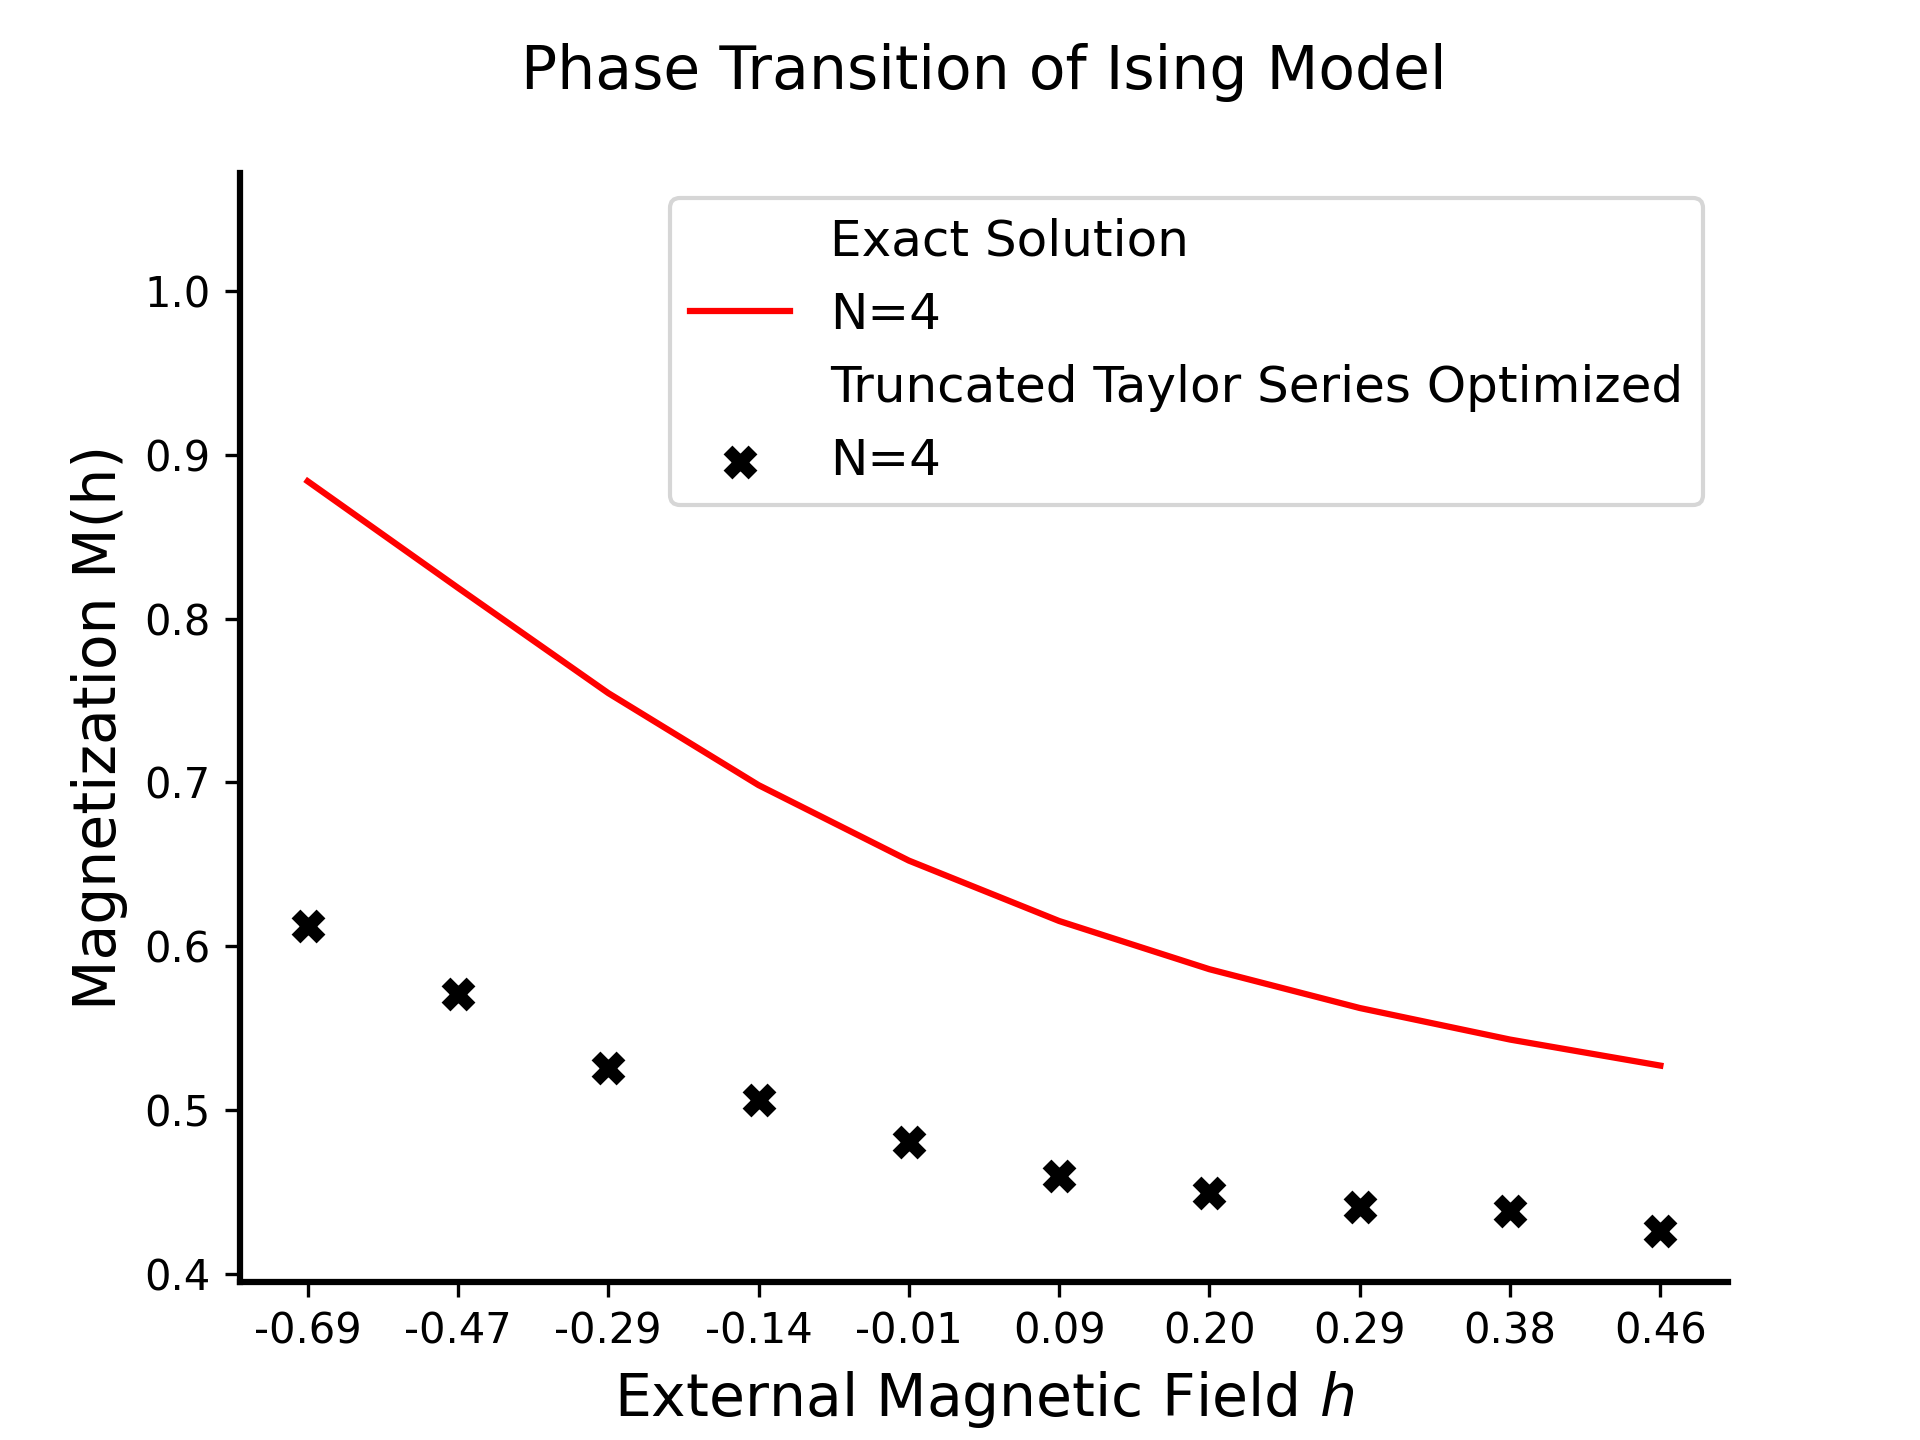
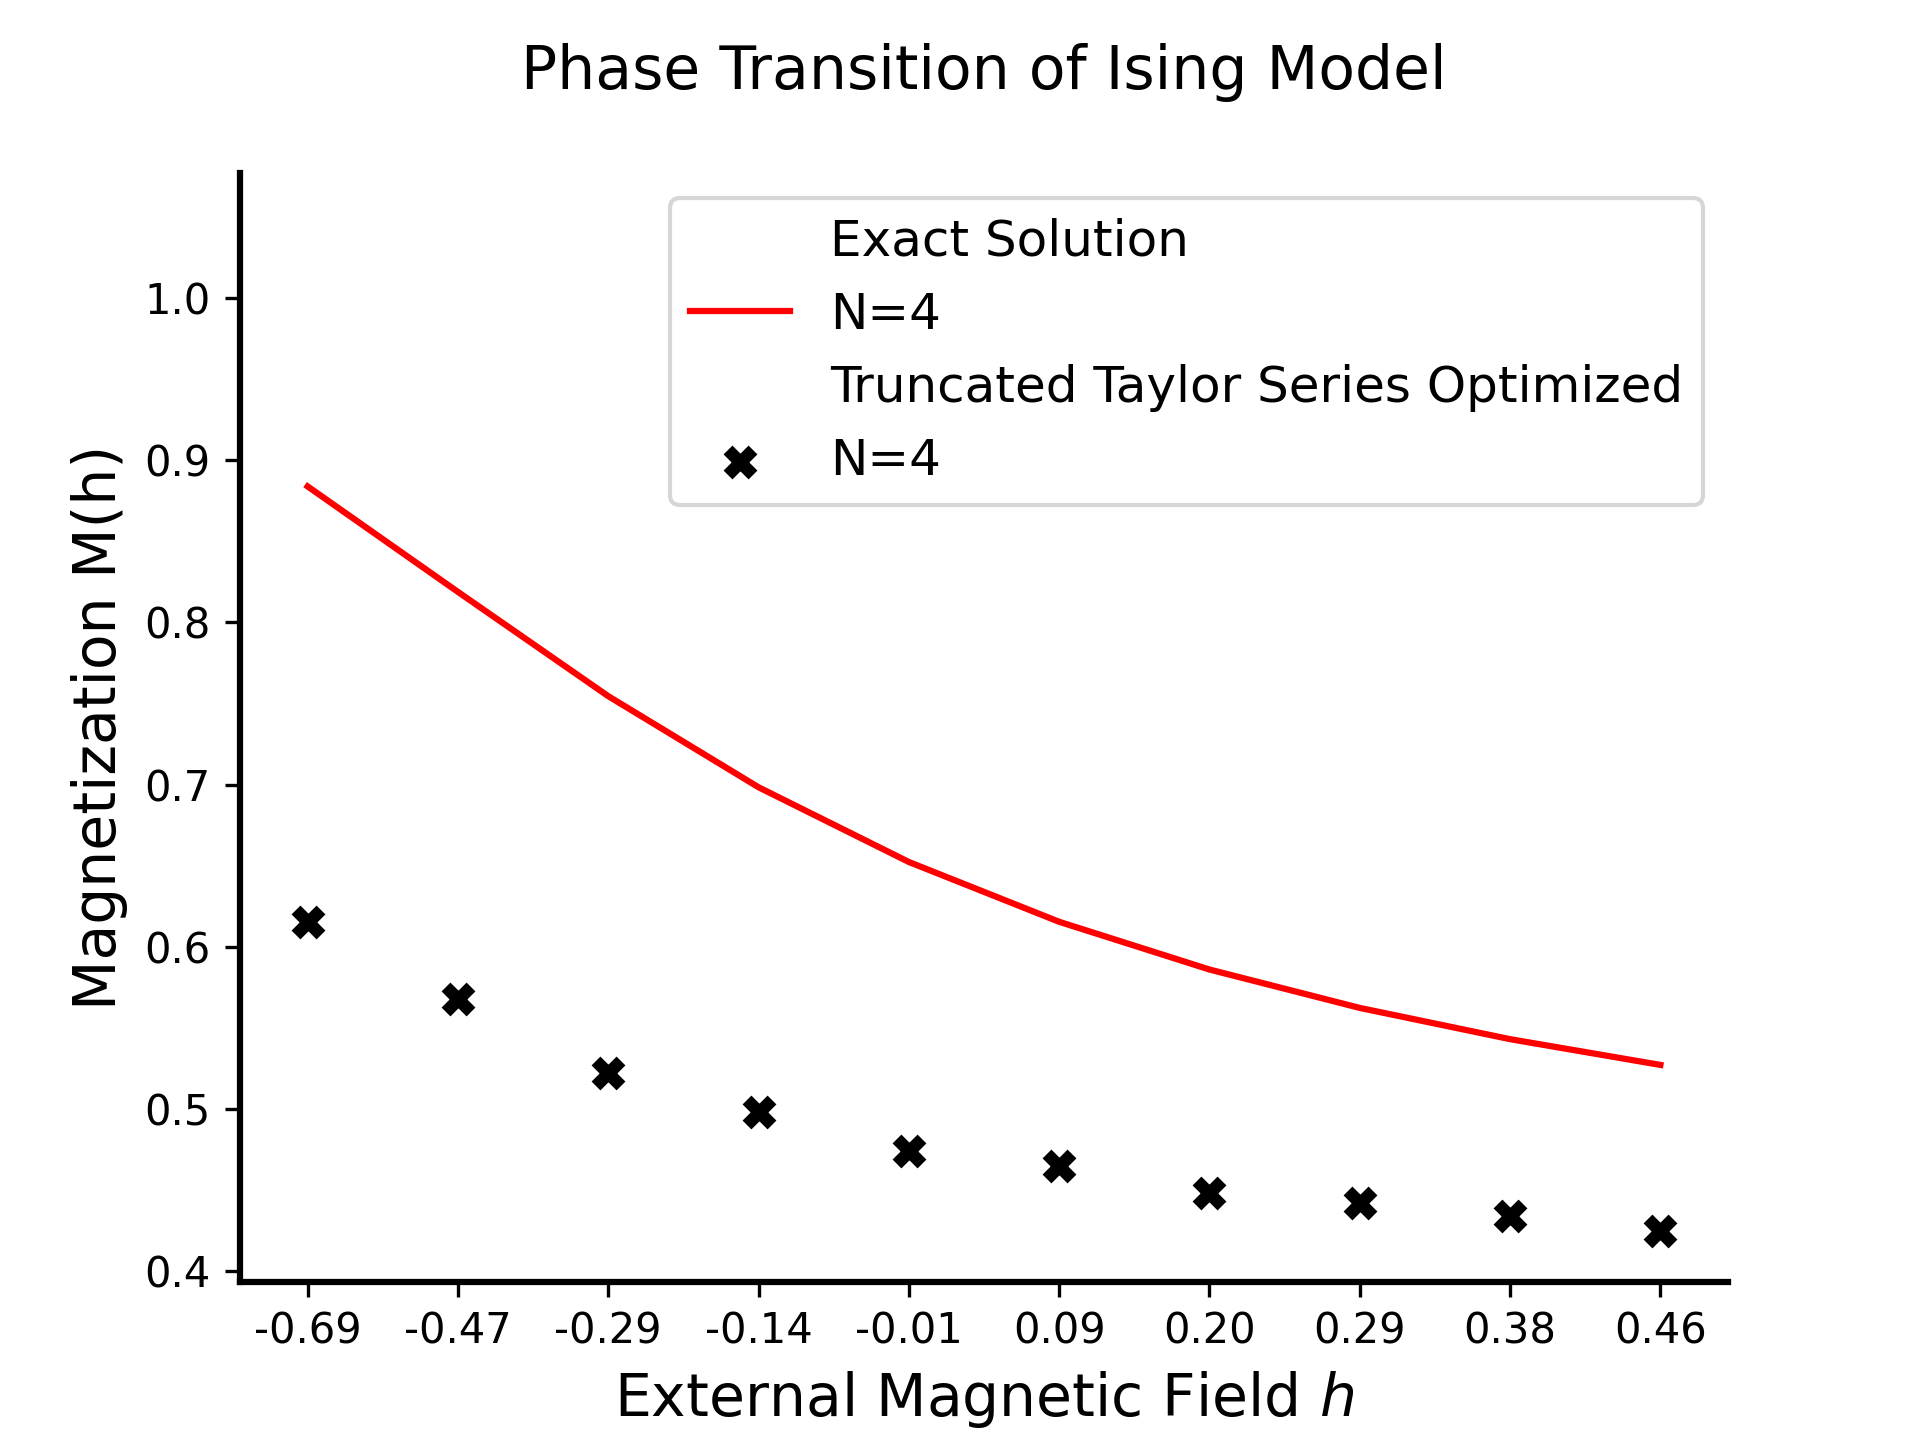
10x qdrift is better

diff --git a/ising/groundstate/simulation/lcusynth.py b/ising/groundstate/simulation/lcusynth.py
@@ -107,7 +107,7 @@ class LCUSynthesizer:
 
     def calculate_mu(self):
         p = np.abs(self.lcu_coeffs) / np.linalg.norm(self.lcu_coeffs, ord=1)
-        count = self.ground_params["count"]
+        count = 10 * self.ground_params["count"]
 
         print("Entering loop mu")
         results = []
